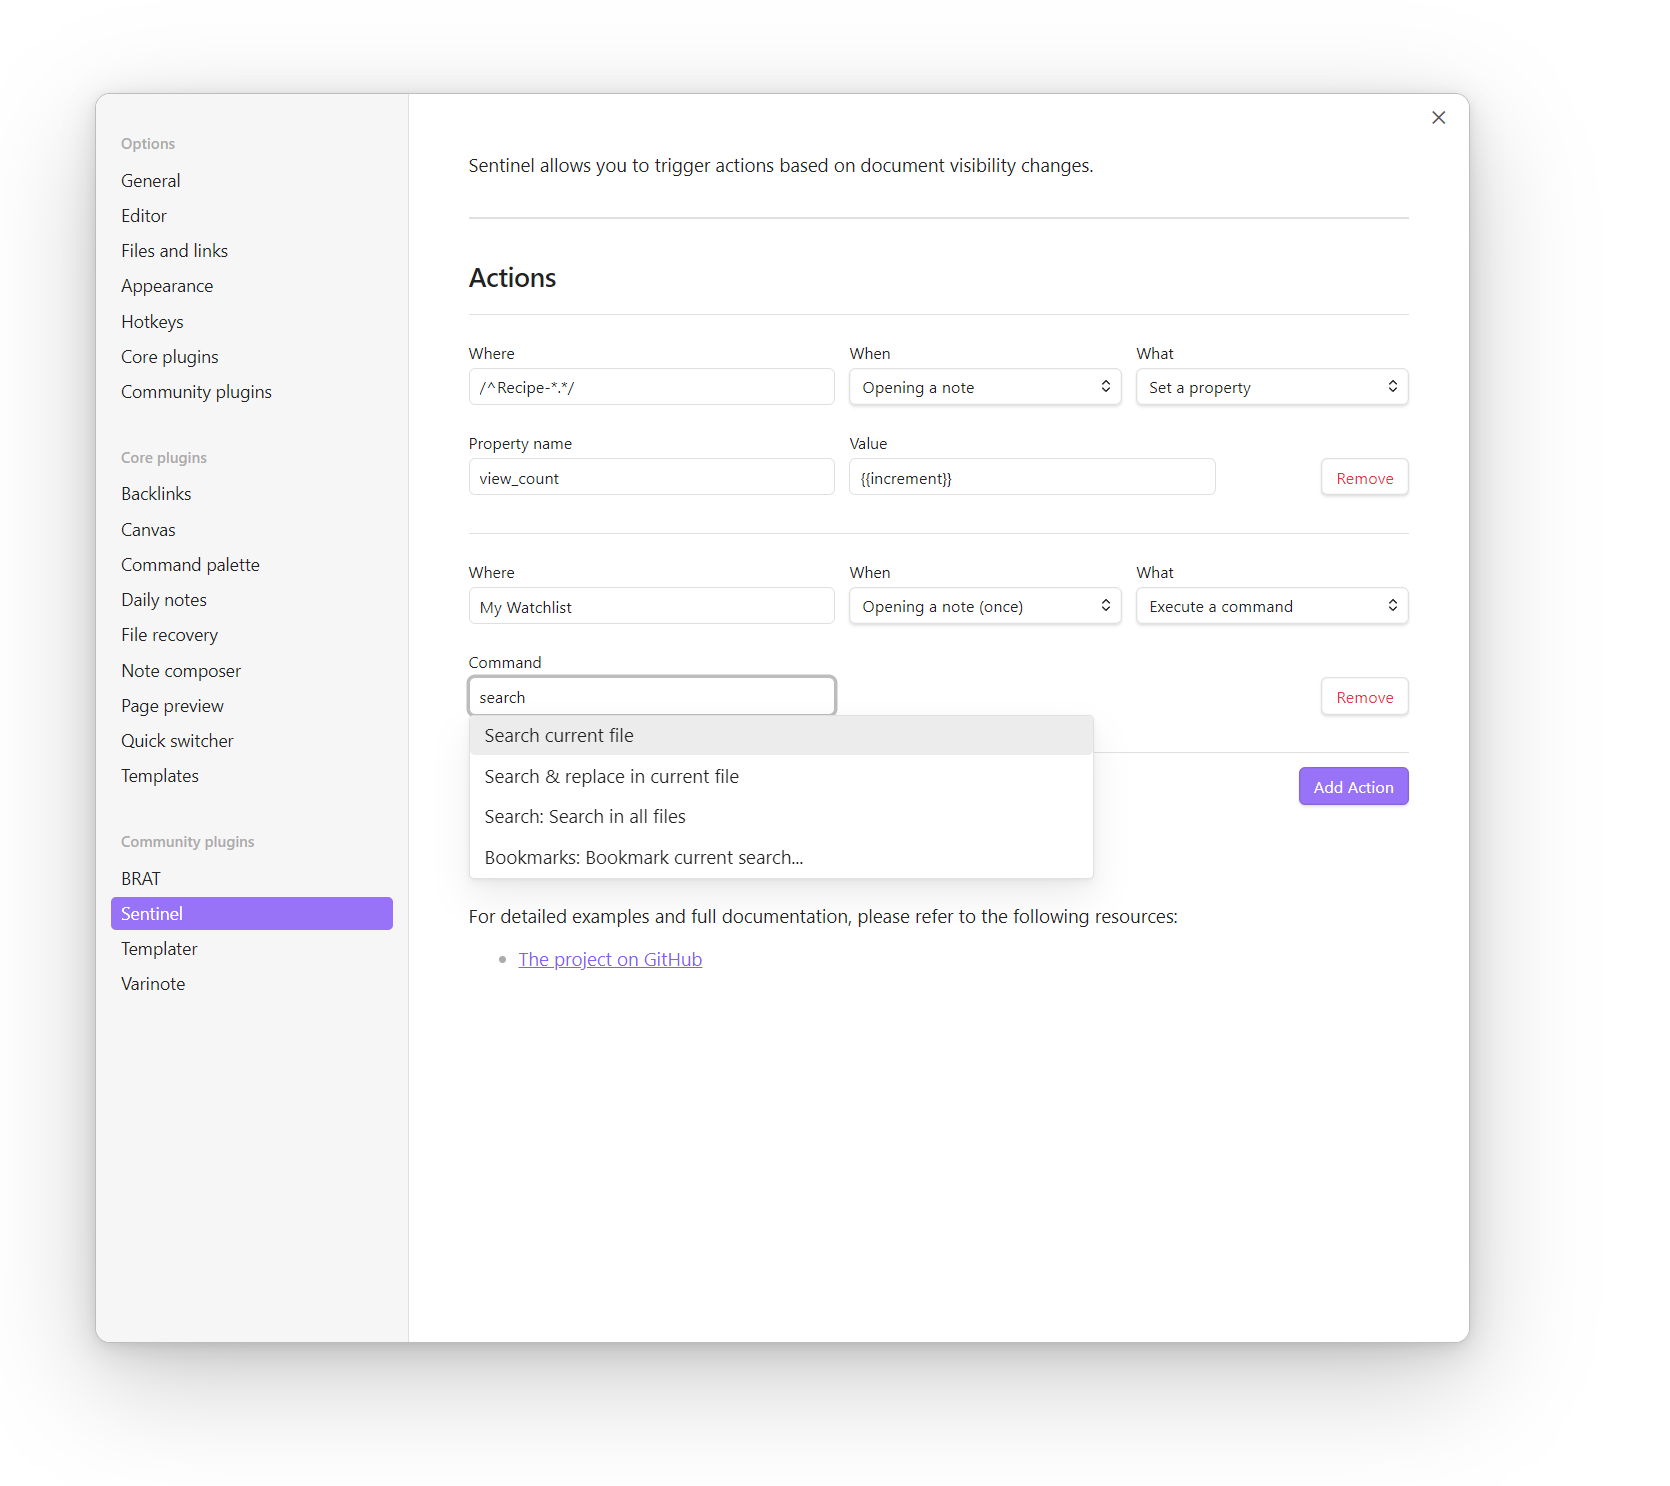
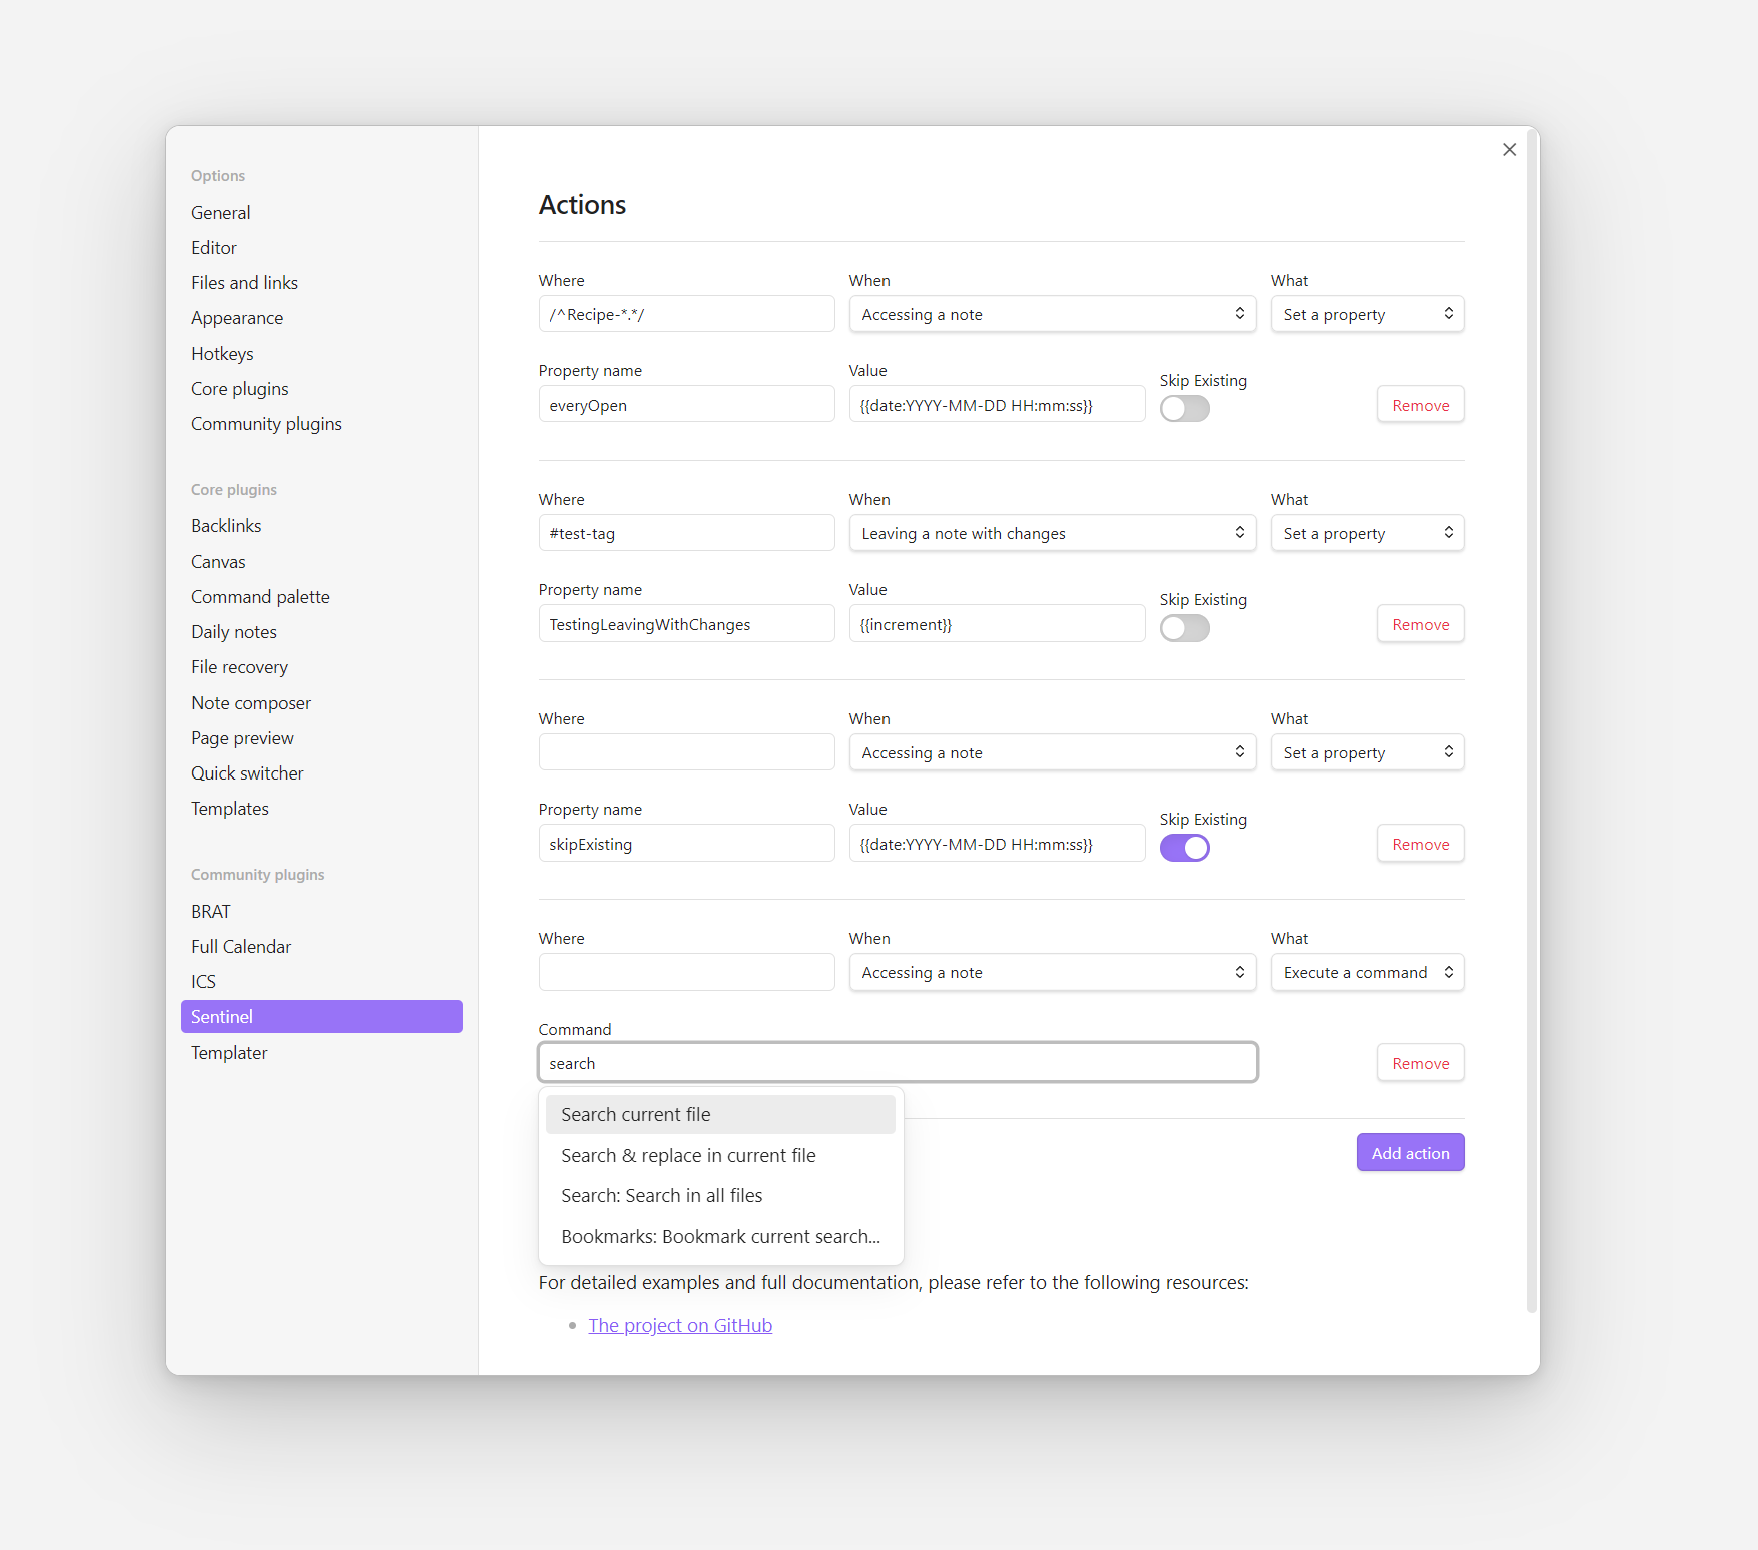
CSS tweaks and updating an asset

diff --git a/styles.css b/styles.css
@@ -68,12 +68,18 @@
 		width: calc(33% - 0.5em);
 		margin-right: 0.75em;
 	}
-	
+
+	.sentinel--action-container .setting-item:nth-child(5):has(button),
 	.sentinel--action-container .setting-item:nth-child(6) {
 		width: calc(14% - 0.5em);
 		margin-right: 0;
 	}
 	.sentinel--action-container .setting-item:nth-child(6) .setting-item-control {
 		width: fit-content;
+	}
+
+	/* Give it more width if it is the Command field */
+	.sentinel--action-container .setting-item:nth-child(4):has(input[placeholder]) {
+ 		width: calc(79% - 0.75em);
 	}
 }
